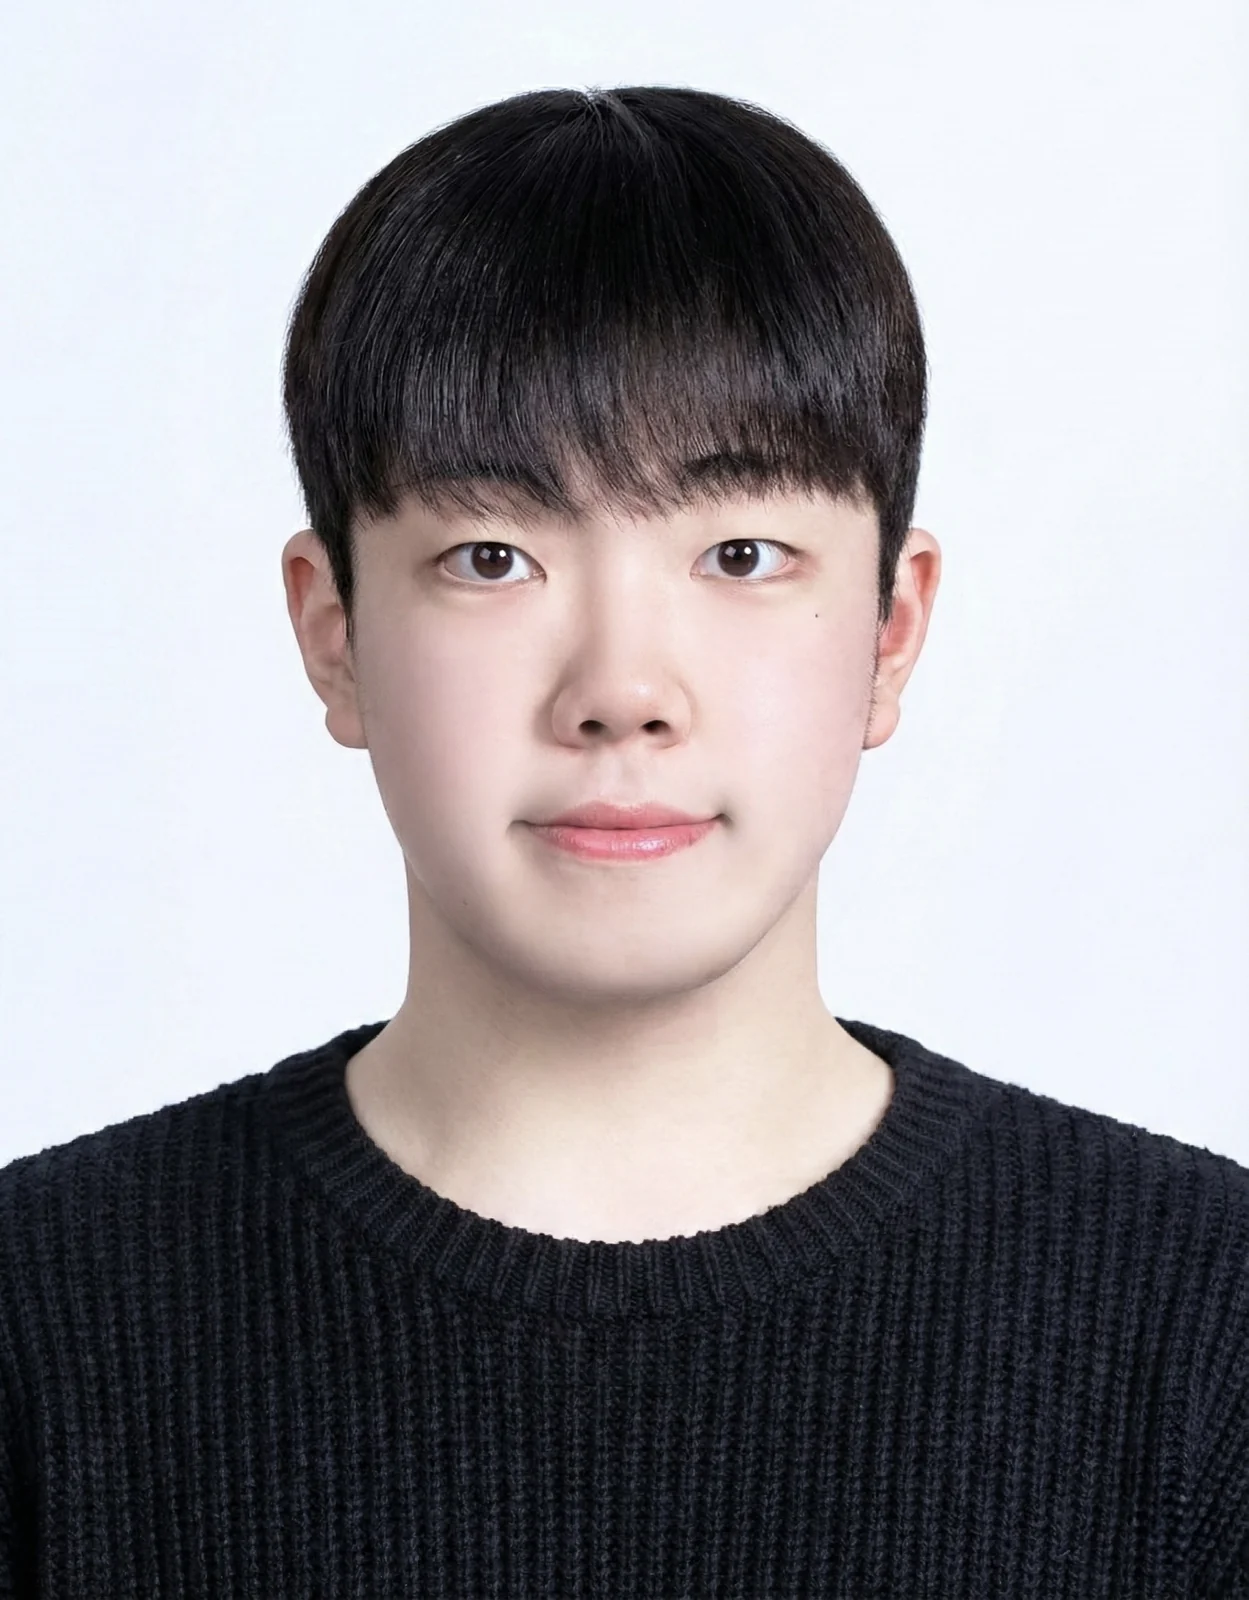
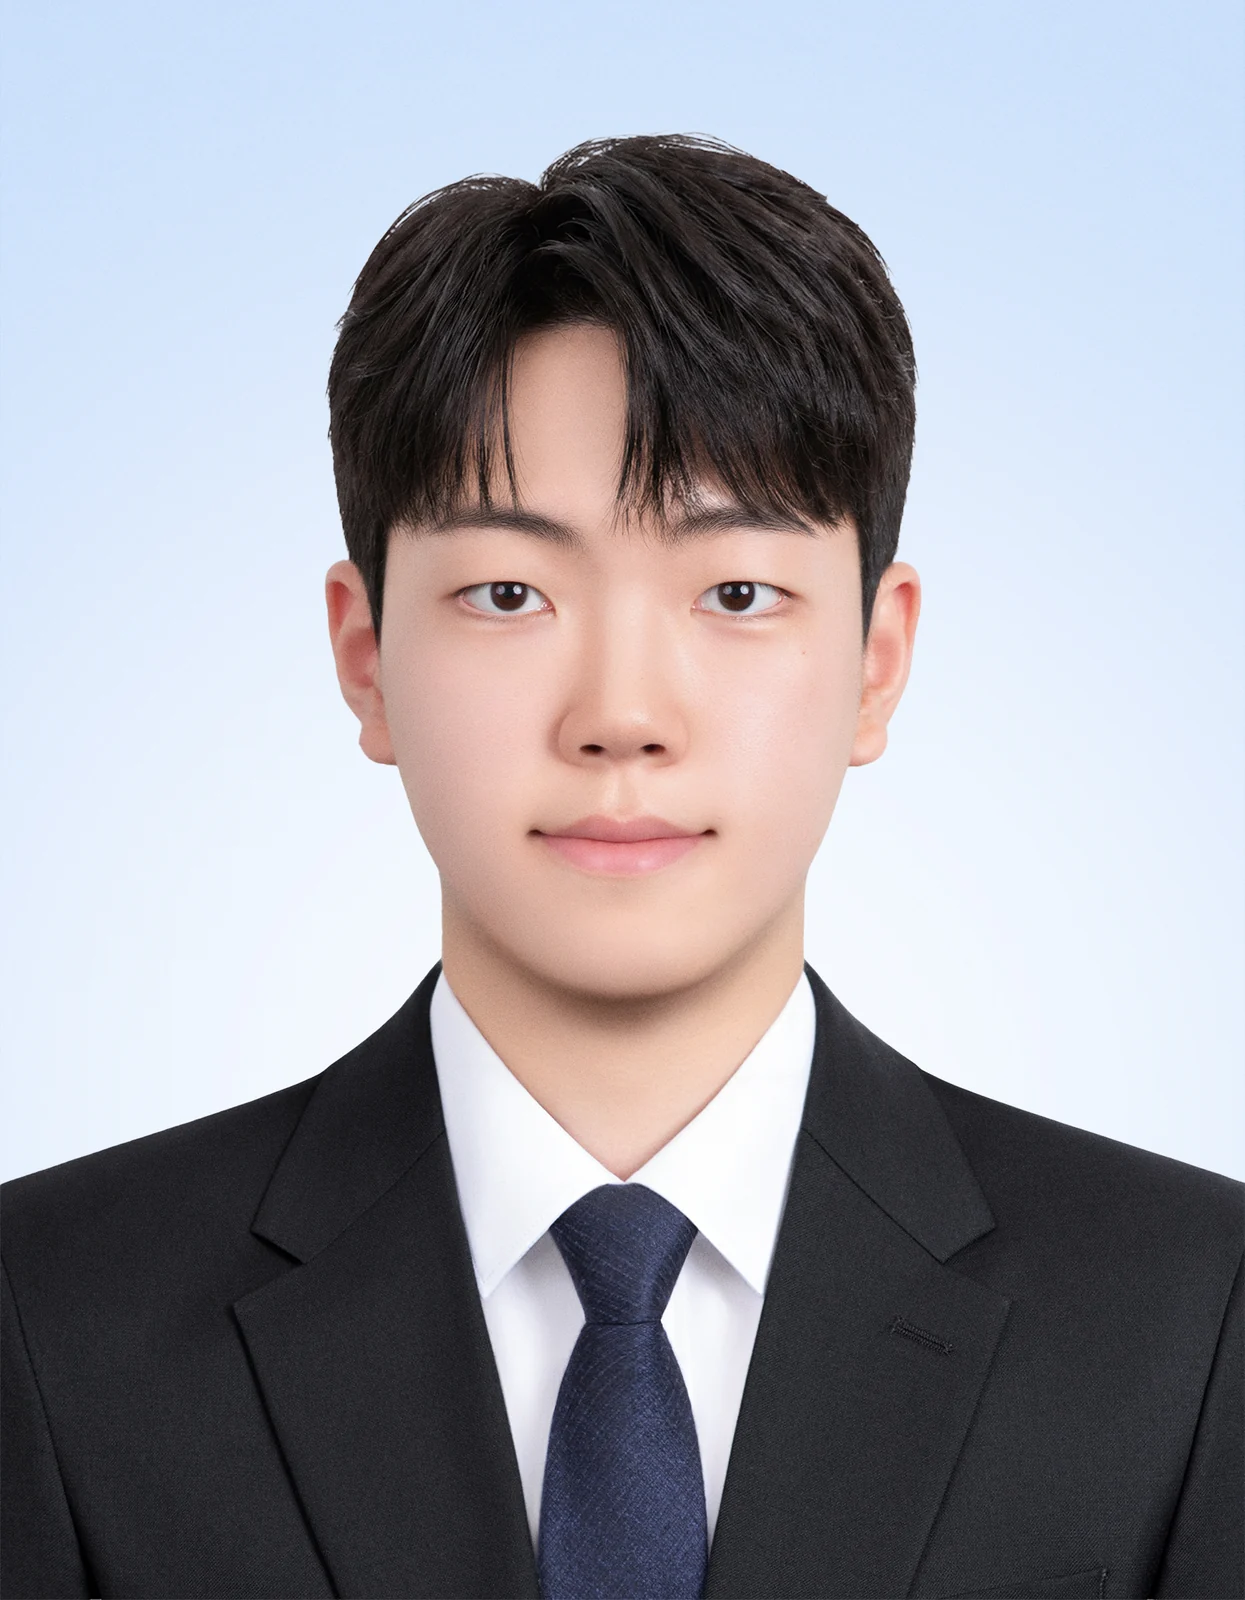
Add gallery profiles and smooth photo focus transitions

diff --git a/public/assets/thanks.js b/public/assets/thanks.js
@@ -3,6 +3,30 @@
   const world = document.getElementById('thanksWorld');
   if (!viewport || !world) return;
 
+  const info = document.getElementById('thanksPerson');
+  const nameLabel = document.getElementById('thanksName');
+  const memberLabel = document.getElementById('thanksMember');
+  const majorLabel = document.getElementById('thanksMajor');
+  const people = {
+    '01': ['JEON HYEONG JUN', '10th member', 'Business'],
+    '02': ['OH JEONG RIN', '10th member', 'Economics'],
+    '03': ['JEONG JAE YEONG', '10th member', 'Industrial Engineering'],
+    '04': ['SIM SEONG CHUL', '10th member', 'Industrial Engineering'],
+    '05': ['HAN GO EUN', '9th member', 'Business'],
+    '06': ['AHN HYEON JUN', '10th member', 'Statistics'],
+    '07': ['KIM JI WON', '10th member', 'Statistics'],
+    '08': ['LEE JEONG SEO', '10th member', 'Business'],
+    '09': ['NO YEONG HUN', '10th member', 'Economics'],
+    '10': ['HWANG HYEON SEOK', '10th member', 'Industrial Engineering'],
+  };
+  const offsets = new Map();
+  let plannedOffsets = new Map();
+  let layoutFrame = 0;
+  let layoutTime = 0;
+  let cameraTransition = false;
+  const stacked = () => viewport.clientWidth < 700;
+  const infoWidth = () => Math.min(stacked() ? 320 : 360, viewport.clientWidth - 32);
+  const gap = () => stacked() ? 24 : 32;
   const FOCAL = 900;
   const NEAR = 300;
   const THRESHOLD = 6;
@@ -88,25 +112,84 @@
     y:(p.y - projectionCenterY())*depth/FOCAL, z:depth,
   }));
   function render() {
+    if (layoutFrame) cancelAnimationFrame(layoutFrame);
+    layoutFrame = 0;
+    const now = performance.now();
+    const blend = reducedMotion.matches ? 1 : 1 - Math.exp(-Math.min(now - layoutTime || 16, 50) / 140);
+    layoutTime = now;
     const cx = viewport.clientWidth/2, cy = projectionCenterY();
-    for (const slot of slots) {
+    const projected = slots.map(slot => {
       const item = models.get(slot), v = local(item), depth = v.z;
+      const scale = FOCAL / Math.max(depth, NEAR);
+      return { slot, depth, scale, x:cx + v.x*scale - item.width*scale/2,
+        y:cy + v.y*scale - item.height*scale/2, w:item.width*scale, h:item.height*scale };
+    });
+    const active = projected.find(p => p.slot === selected && p.depth > NEAR);
+    if (selected && active) {
+      info.hidden = false;
+      info.style.width = `${infoWidth()}px`;
+      const iw = info.offsetWidth, ih = info.offsetHeight;
+      const ix = stacked() ? active.x + (active.w-iw)/2 : active.x + active.w + gap();
+      const iy = stacked() ? active.y + active.h + gap() : active.y + (active.h-ih)/2;
+      const shift = offsets.get(selected) || {x:0,y:0};
+      info.style.transform = `translate3d(${ix+shift.x}px, ${iy+shift.y}px, 0)`;
+    } else info.hidden = true;
+    let settling = false;
+    for (const p of projected) {
+      const {slot,depth,scale,w,h} = p;
+      let dx = 0, dy = 0;
+      const planned = plannedOffsets.get(slot);
+      if (selected && planned && slot !== selected) { dx = planned.x; dy = planned.y; }
+      const old = offsets.get(slot) || {x:0,y:0};
+      const offset = cameraTransition ? old : {x:old.x+(dx-old.x)*blend,y:old.y+(dy-old.y)*blend};
+      if (!cameraTransition) {
+        if (Math.hypot(dx-offset.x,dy-offset.y) > .2) settling = true;
+        else { offset.x=dx; offset.y=dy; }
+      }
+      offsets.set(slot,offset);
       if (depth <= NEAR) {
         slot.style.opacity = '0'; slot.style.visibility = 'hidden';
         slot.style.pointerEvents = 'none'; slot.tabIndex = -1; continue;
       }
-      const scale = FOCAL/depth;
-      const x = cx + v.x*scale - item.width*scale/2;
-      const y = cy + v.y*scale - item.height*scale/2;
       const opacity = clamp((depth-NEAR)/220, 0, 1);
-      slot.style.transform = `translate3d(${x}px, ${y}px, 0) scale(${scale})`;
-      slot.style.zIndex = String(Math.round(10000-depth));
+      slot.style.transform = `translate3d(${p.x+offset.x}px, ${p.y+offset.y}px, 0) scale(${scale})`;
+      slot.style.zIndex = String(slot === selected ? 11000 : Math.round(10000-depth));
       slot.style.opacity = String(opacity);
       slot.style.pointerEvents = opacity > .15 ? 'auto' : 'none';
       slot.style.visibility = 'visible'; slot.tabIndex = 0;
     }
+    if (settling) layoutFrame = requestAnimationFrame(render);
   }
-  const stop = () => { if (animation) cancelAnimationFrame(animation); animation = 0; };
+  // 최종 구도에서 이동할 위치를 한 번 계산해, 카메라 이동 중 회피 방향이 바뀌지 않게 한다.
+  const planBackground = view => {
+    const result = new Map();
+    if (!selected) return result;
+    const project = slot => {
+      const item=models.get(slot), v=local(item,view), scale=FOCAL/Math.max(v.z,NEAR);
+      return {slot,depth:v.z,x:viewport.clientWidth/2+v.x*scale-item.width*scale/2,
+        y:projectionCenterY()+v.y*scale-item.height*scale/2,w:item.width*scale,h:item.height*scale};
+    };
+    const active=project(selected), iw=info.offsetWidth, ih=info.offsetHeight;
+    const ix=stacked()?active.x+(active.w-iw)/2:active.x+active.w+gap();
+    const iy=stacked()?active.y+active.h+gap():active.y+(active.h-ih)/2;
+    const safe={left:Math.min(active.x,ix)-20,top:Math.min(active.y,iy)-20,
+      right:Math.max(active.x+active.w,ix+iw)+20,bottom:Math.max(active.y+active.h,iy+ih)+20};
+    for (const slot of slots) {
+      if (slot===selected) continue;
+      const p=project(slot);
+      if (p.depth<=NEAR || p.x>=safe.right || p.x+p.w<=safe.left || p.y>=safe.bottom || p.y+p.h<=safe.top) continue;
+      const moves=[{x:safe.left-p.x-p.w,y:0},{x:safe.right-p.x,y:0},
+        {x:0,y:safe.top-p.y-p.h},{x:0,y:safe.bottom-p.y}]
+        .filter(m=>p.x+m.x>=8 && p.x+m.x+p.w<=viewport.clientWidth-8);
+      result.set(slot,moves.sort((a,b)=>Math.hypot(a.x,a.y)-Math.hypot(b.x,b.y))[0] || {x:0,y:safe.bottom-p.y});
+    }
+    return result;
+  };
+  const stop = () => {
+    if (animation) cancelAnimationFrame(animation);
+    animation = 0;
+    cameraTransition = false;
+  };
   const stopHover = () => {
     if (hoverFrame) cancelAnimationFrame(hoverFrame);
     hoverFrame = 0;
@@ -132,10 +215,23 @@
   };
   const animateTo = (target, duration = 700) => {
     stop();
-    if (reducedMotion.matches || duration === 0) { setCamera(target); return; }
+    if (layoutFrame) cancelAnimationFrame(layoutFrame);
+    layoutFrame = 0;
+    const startOffsets = new Map(slots.map(slot => [slot, {...(offsets.get(slot) || {x:0,y:0})}]));
+    const endOffsets = new Map(slots.map(slot => [slot, {...(plannedOffsets.get(slot) || {x:0,y:0})}]));
+    const placeOffsets = progress => {
+      for (const slot of slots) {
+        const a = startOffsets.get(slot), b = endOffsets.get(slot);
+        offsets.set(slot, {x:a.x+(b.x-a.x)*progress,y:a.y+(b.y-a.y)*progress});
+      }
+    };
+    if (reducedMotion.matches || duration === 0) { placeOffsets(1); setCamera(target); return; }
     const start = snapshot(), begun = performance.now();
+    cameraTransition = true;
     const frame = now => {
-      const t = clamp((now-begun)/duration,0,1), e = 1-Math.pow(1-t,4);
+      // 카메라와 회피 보정을 하나의 타임라인으로 움직인다. 시작·끝의 속도는 0이다.
+      const t = clamp((now-begun)/duration,0,1), e = t*t*t*(t*(t*6-15)+10);
+      placeOffsets(e);
       setCamera({ position: {
         x:start.position.x+(target.position.x-start.position.x)*e,
         y:start.position.y+(target.position.y-start.position.y)*e,
@@ -145,12 +241,28 @@
         y:start.center.y+(target.center.y-start.center.y)*e,
         z:start.center.z+(target.center.z-start.center.z)*e,
       }, radius:start.radius+(target.radius-start.radius)*e });
-      animation = t < 1 ? requestAnimationFrame(frame) : 0;
+      if (t < 1) animation = requestAnimationFrame(frame);
+      else { animation = 0; cameraTransition = false; }
     };
     animation = requestAnimationFrame(frame);
   };
   const select = slot => {
     selected = slot;
+    if (slot) {
+      const [name, member, major] = people[slot.dataset.person];
+      nameLabel.textContent = name;
+      memberLabel.textContent = member;
+      majorLabel.textContent = major;
+      info.hidden = false;
+      nameLabel.style.fontSize = "";
+      info.style.width = `${infoWidth()}px`;
+      const size = parseFloat(getComputedStyle(nameLabel).fontSize);
+      const available = info.clientWidth;
+      if (nameLabel.scrollWidth > available) {
+        nameLabel.style.fontSize = `${Math.max(20, size * available / nameLabel.scrollWidth)}px`;
+      }
+      info.hidden = false;
+    } else { info.hidden = true; plannedOffsets = new Map(); }
     for (const item of slots) {
       item.classList.toggle('is-selected', item === slot);
       item.setAttribute('aria-pressed', String(item === slot));
@@ -161,11 +273,20 @@
     stopHover();
     const item = models.get(slot);
     select(slot);
-    const scale = clamp(Math.min(viewport.clientWidth*.68/item.width, viewport.clientHeight*.62/item.height),1.05,1.55);
-    const radius = FOCAL/scale;
-    const center = { x:item.x, y:item.y, z:item.z };
+    info.style.width = `${infoWidth()}px`;
+    const scale = Math.min(1.55,
+      (stacked() ? viewport.clientWidth-40 : viewport.clientWidth-infoWidth()-gap()-64)/item.width,
+      (stacked() ? viewport.clientHeight-info.offsetHeight-gap()-100 : viewport.clientHeight*.62)/item.height);
+    const safeScale = Math.max(.4, scale);
+    const radius = FOCAL/safeScale;
+    const shift = stacked()
+      ? {x:0,y:(info.offsetHeight+gap())/2/safeScale,z:0}
+      : {x:(infoWidth()+gap())/2/safeScale,y:0,z:0};
+    const center = add(item, rotate(camera.orientation,shift));
     const position = sub(center, rotate(camera.orientation,{ x:0, y:0, z:radius }));
-    animateTo({ position, orientation:{ ...camera.orientation }, center, radius }, duration);
+    const target = { position, orientation:{ ...camera.orientation }, center, radius };
+    plannedOffsets = planBackground(target);
+    animateTo(target, duration);
   };
 
   // Rotate around the current scene center. Both axes are camera-local, so a
@@ -227,15 +348,37 @@
     animation = requestAnimationFrame(frame);
   };
   const zoomAt = (p, depth, baseCamera, anchorPoint, anchorDepth) => {
-    const nextDepth = clamp(depth,ORBIT_MIN,ORBIT_MAX);
+    let nextDepth = clamp(depth,ORBIT_MIN,ORBIT_MAX);
+    if (selected) {
+      const item = models.get(selected);
+      const maxScale = Math.max(.4, Math.min(1.55,
+        (stacked() ? viewport.clientWidth-40 : viewport.clientWidth-infoWidth()-gap()-64)/item.width,
+        (stacked() ? viewport.clientHeight-info.offsetHeight-gap()-100 : viewport.clientHeight*.62)/item.height));
+      nextDepth = Math.max(nextDepth, baseCamera.radius + FOCAL/maxScale - local(item,baseCamera).z);
+    }
     const anchor = worldAt(anchorPoint,anchorDepth,baseCamera);
     const offset = rotate(baseCamera.orientation, {
       x:(p.x-viewport.clientWidth/2)*nextDepth/FOCAL,
       y:(p.y-projectionCenterY())*nextDepth/FOCAL, z:nextDepth,
     });
-    const position = sub(anchor,offset);
+    let position = sub(anchor,offset);
+    if (selected) {
+      // 핀치의 포인터 기준점을 유지하되 사진·정보가 화면 밖으로 나가지 않게 제한한다.
+      const item = models.get(selected);
+      const v = inverse(baseCamera.orientation,sub(item,position));
+      const scale = FOCAL / v.z, w = item.width*scale, h = item.height*scale;
+      const totalW = stacked() ? Math.max(w,infoWidth()) : w+gap()+infoWidth();
+      const totalH = stacked() ? h+gap()+info.offsetHeight : Math.max(h,info.offsetHeight);
+      const left = viewport.clientWidth/2+v.x*scale-(stacked() ? totalW/2 : w/2);
+      const top = projectionCenterY()+v.y*scale-(stacked() ? h/2 : totalH/2);
+      const dx = clamp(left,16,Math.max(16,viewport.clientWidth-totalW-16))-left;
+      const dy = clamp(top,16,Math.max(16,viewport.clientHeight-totalH-16))-top;
+      position = sub(position,rotate(baseCamera.orientation,{x:dx/scale,y:dy/scale,z:0}));
+    }
     const center = add(position,rotate(baseCamera.orientation,{ x:0, y:0, z:nextDepth }));
-    setCamera({ position, orientation:baseCamera.orientation, center, radius:nextDepth });
+    const target = { position, orientation:baseCamera.orientation, center, radius:nextDepth };
+    plannedOffsets = planBackground(target);
+    setCamera(target);
   };
   const startPinch = () => {
     const [a,b] = [...pointers.values()];
@@ -279,7 +422,7 @@
       const [a,b] = [...pointers.values()], mid = middle(a,b);
       const depth = clamp(pinch.depth/(distance(a,b)/pinch.distance),ORBIT_MIN,ORBIT_MAX);
       zoomAt(mid,depth,pinch.camera,pinch.center,pinch.depth);
-      select(null); return;
+      return;
     }
     if (!gesture) return;
     if (!gesture.moved && distance(p,gesture.start) < THRESHOLD) return;
@@ -341,7 +484,6 @@
     const base = snapshot();
     const depth = base.radius*Math.exp(clamp(e.deltaY,-120,120)*0.0025);
     zoomAt(p,depth,base,p,base.radius);
-    select(null);
   }, { passive:false });
   // Safari exposes the same trackpad movement as gesture scale events.
   viewport.addEventListener('gesturestart', e => {
@@ -356,7 +498,6 @@
     const scale = Math.max(e.scale/gesturePinch.scale,0.1);
     zoomAt(point(e),gesturePinch.camera.radius/scale,
       gesturePinch.camera,gesturePinch.point,gesturePinch.camera.radius);
-    select(null);
   }, { passive:false });
   viewport.addEventListener('gestureend', e => {
     if (!gesturePinch) return;
@@ -368,6 +509,10 @@
       e.preventDefault(); reset();
     }
   });
-  new ResizeObserver(render).observe(viewport);
+  new ResizeObserver(() => {
+    if (selected) focus(selected, 0);
+    else render();
+  }).observe(viewport);
+  document.fonts.ready.then(render);
   select(null); render();
 })();

diff --git a/public/thanks.html b/public/thanks.html
@@ -22,17 +22,22 @@
 <main class="page thanks-page">
   <div class="thanks-viewport" id="thanksViewport" aria-label="사진 10개를 탐색하는 캔버스">
     <div class="thanks-world" id="thanksWorld">
-      <button class="thanks-slot" type="button" data-z="120" style="--x: 85px; --y: 245px; --w: 210px; --h: 270px" aria-label="사진 1 확대"><img src="/assets/thanks_to/photo-01.webp" alt="" decoding="async"></button>
-      <button class="thanks-slot" type="button" data-z="820" style="--x: 405px; --y: 75px; --w: 205px; --h: 281px" aria-label="사진 2 확대"><img src="/assets/thanks_to/photo-02.webp" alt="" decoding="async"></button>
-      <button class="thanks-slot" type="button" data-z="420" style="--x: 754px; --y: 162px; --w: 258px; --h: 204px" aria-label="사진 3 확대"><img src="/assets/thanks_to/photo-03.webp" alt="" decoding="async"></button>
-      <button class="thanks-slot" type="button" data-z="1080" style="--x: 1110px; --y: 45px; --w: 202px; --h: 303px" aria-label="사진 4 확대"><img src="/assets/thanks_to/photo-04.webp" alt="" decoding="async"></button>
-      <button class="thanks-slot" type="button" data-z="180" style="--x: 40px; --y: 598px; --w: 205px; --h: 281px" aria-label="사진 5 확대"><img src="/assets/thanks_to/photo-05.webp" alt="" decoding="async"></button>
-      <button class="thanks-slot" type="button" data-z="560" style="--x: 350px; --y: 410px; --w: 202px; --h: 259px" aria-label="사진 6 확대"><img src="/assets/thanks_to/photo-06.webp" alt="" decoding="async"></button>
-      <button class="thanks-slot" type="button" data-z="0" style="--x: 706px; --y: 500px; --w: 196px; --h: 262px" aria-label="사진 7 확대"><img src="/assets/thanks_to/photo-07.webp" alt="" decoding="async"></button>
-      <button class="thanks-slot" type="button" data-z="870" style="--x: 1190px; --y: 350px; --w: 202px; --h: 260px" aria-label="사진 8 확대"><img src="/assets/thanks_to/photo-08.webp" alt="" decoding="async"></button>
-      <button class="thanks-slot" type="button" data-z="480" style="--x: 255px; --y: 840px; --w: 202px; --h: 260px" aria-label="사진 9 확대"><img src="/assets/thanks_to/photo-09.webp" alt="" decoding="async"></button>
-      <button class="thanks-slot" type="button" data-z="70" style="--x: 830px; --y: 755px; --w: 207px; --h: 250px" aria-label="사진 10 확대"><img src="/assets/thanks_to/photo-10.webp" alt="" decoding="async"></button>
+      <button class="thanks-slot" type="button" data-z="120" style="--x: 85px; --y: 245px; --w: 210px; --h: 270px" data-person="01" aria-label="JEON HYEONG JUN 확대"><img src="/assets/thanks_to/photo-01.webp" alt="" decoding="async"></button>
+      <button class="thanks-slot" type="button" data-z="820" style="--x: 405px; --y: 75px; --w: 205px; --h: 281px" data-person="02" aria-label="OH JEONG RIN 확대"><img src="/assets/thanks_to/photo-02.webp" alt="" decoding="async"></button>
+      <button class="thanks-slot" type="button" data-z="420" style="--x: 754px; --y: 162px; --w: 258px; --h: 204px" data-person="03" aria-label="JEONG JAE YEONG 확대"><img src="/assets/thanks_to/photo-03.webp" alt="" decoding="async"></button>
+      <button class="thanks-slot" type="button" data-z="1080" style="--x: 1030px; --y: 65px; --w: 202px; --h: 303px" data-person="04" aria-label="SIM SEONG CHUL 확대"><img src="/assets/thanks_to/photo-04.webp" alt="" decoding="async"></button>
+      <button class="thanks-slot" type="button" data-z="180" style="--x: 40px; --y: 598px; --w: 205px; --h: 281px" data-person="05" aria-label="HAN GO EUN 확대"><img src="/assets/thanks_to/photo-05.webp" alt="" decoding="async"></button>
+      <button class="thanks-slot" type="button" data-z="560" style="--x: 350px; --y: 410px; --w: 202px; --h: 259px" data-person="06" aria-label="AHN HYEON JUN 확대"><img src="/assets/thanks_to/photo-06.webp?v=20261007-replaced" alt="" decoding="async"></button>
+      <button class="thanks-slot" type="button" data-z="0" style="--x: 706px; --y: 500px; --w: 196px; --h: 262px" data-person="07" aria-label="KIM JI WON 확대"><img src="/assets/thanks_to/photo-07.webp" alt="" decoding="async"></button>
+      <button class="thanks-slot" type="button" data-z="870" style="--x: 1100px; --y: 350px; --w: 202px; --h: 260px" data-person="08" aria-label="LEE JEONG SEO 확대"><img src="/assets/thanks_to/photo-08.webp" alt="" decoding="async"></button>
+      <button class="thanks-slot" type="button" data-z="480" style="--x: 255px; --y: 840px; --w: 202px; --h: 260px" data-person="09" aria-label="NO YEONG HUN 확대"><img src="/assets/thanks_to/photo-09.webp" alt="" decoding="async"></button>
+      <button class="thanks-slot" type="button" data-z="70" style="--x: 830px; --y: 755px; --w: 207px; --h: 250px" data-person="10" aria-label="HWANG HYEON SEOK 확대"><img src="/assets/thanks_to/photo-10.webp" alt="" decoding="async"></button>
     </div>
+    <section class="thanks-person" id="thanksPerson" hidden aria-live="polite" aria-atomic="true">
+      <h2 id="thanksName"></h2>
+      <p id="thanksMember"></p>
+      <p id="thanksMajor"></p>
+    </section>
   </div>
 </main>
 </body>

diff --git a/public/assets/thanks.css b/public/assets/thanks.css
@@ -58,3 +58,22 @@ main.page.thanks-page {
   main.page.thanks-page { padding: 74px 14px 24px; }
   .thanks-viewport { height: max(510px, calc(100svh - 155px)); }
 }
+
+.thanks-person {
+  position: absolute; left: 0; top: 0; z-index: 12000;
+  pointer-events: none;
+  text-align: left;
+  color: var(--ink);
+}
+.thanks-person h2 {
+  margin: 0 0 14px;
+  font-family: var(--display);
+  font-size: clamp(28px, 3vw, 36px);
+  font-weight: 700; line-height: 1.12;
+  white-space: nowrap;
+}
+.thanks-person p {
+  margin: 0; font-size: 15px; line-height: 1.5;
+  color: var(--ink-2);
+}
+.thanks-person p + p { margin-top: 5px; }

diff --git a/public/login.html b/public/login.html
@@ -177,7 +177,7 @@
         window.IBA.api(signup ? "/api/signup" : "/api/login", {
           method: "POST", headers: { "Content-Type": "application/json" }, body: JSON.stringify(body),
         }),
-        wait(2500),
+        wait(1700),
       ]);
       if (!r.ok) throw new Error((r.body && r.body.message)
         || (signup ? `가입하지 못했습니다 (HTTP ${r.status})` : `Couldn’t sign in (HTTP ${r.status}).`));

diff --git a/app.py b/app.py
@@ -344,7 +344,8 @@ async def submit(
             status_code=403,
             content={"error_code": "contest_not_started", "message": "대회가 아직 시작되지 않았습니다."},
         )
-    if state == clock.FINAL:
+    # 로컬 CSV·메모리 모드에서는 마감 뒤에도 채점 테스트를 허용한다.
+    if state == clock.FINAL and not _dev_any_login():
         return JSONResponse(
             status_code=403,
             content={"error_code": "contest_closed", "message": "대회가 마감되어 더 이상 제출할 수 없습니다."},
